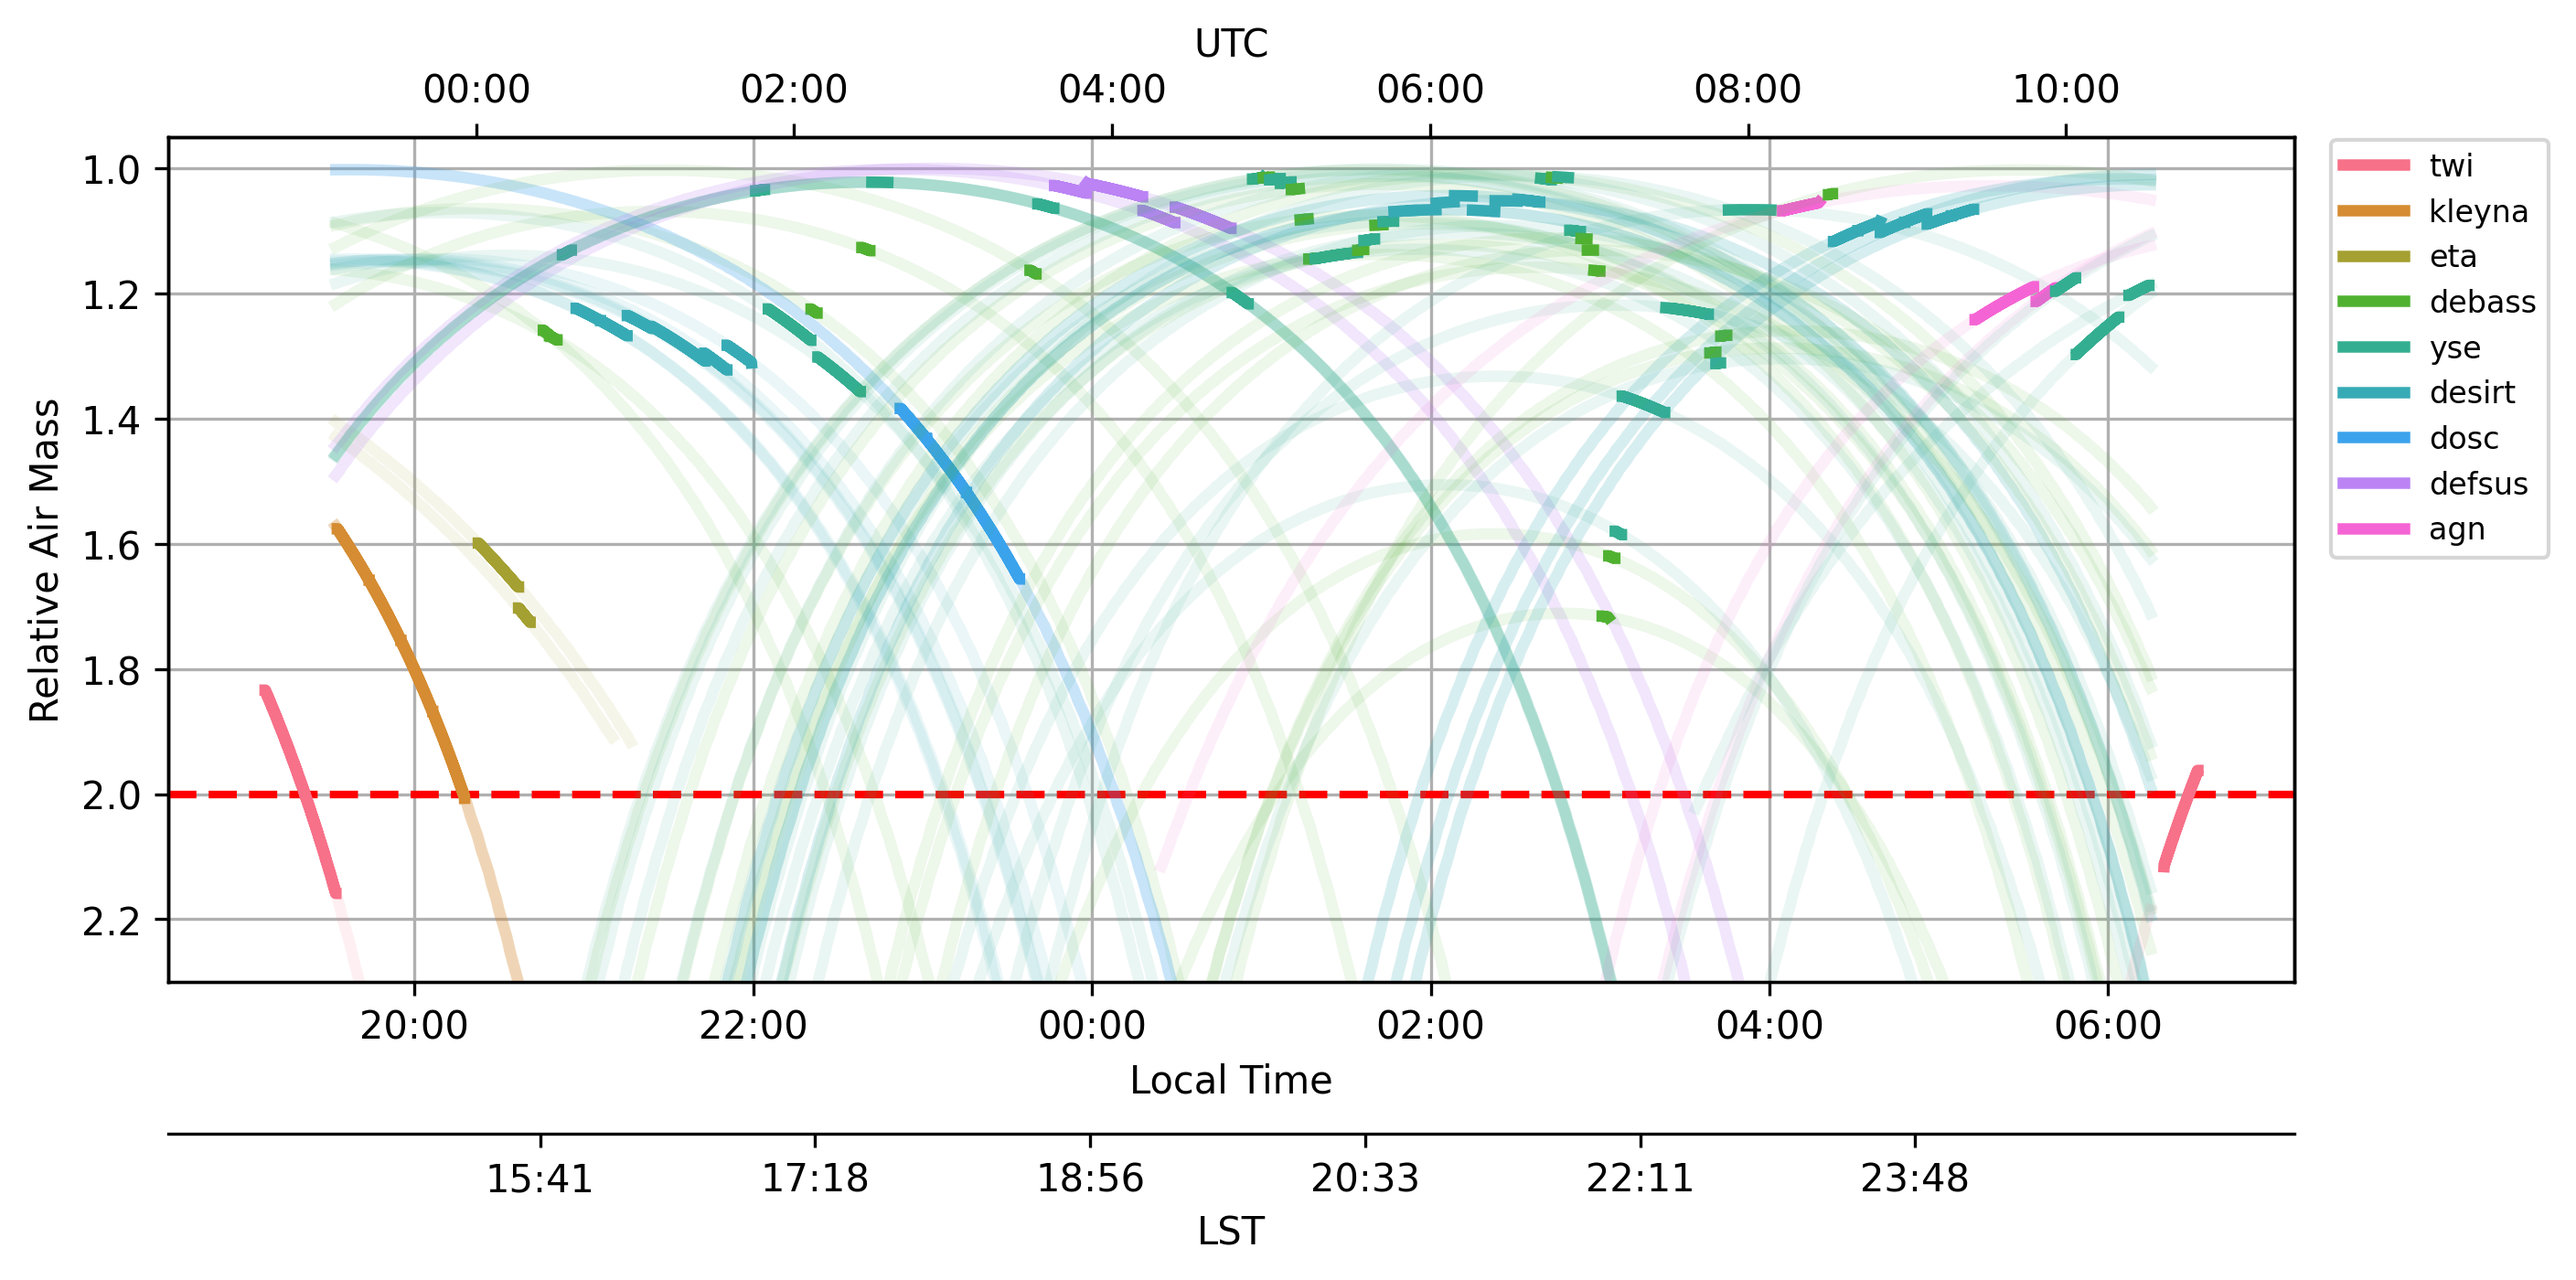
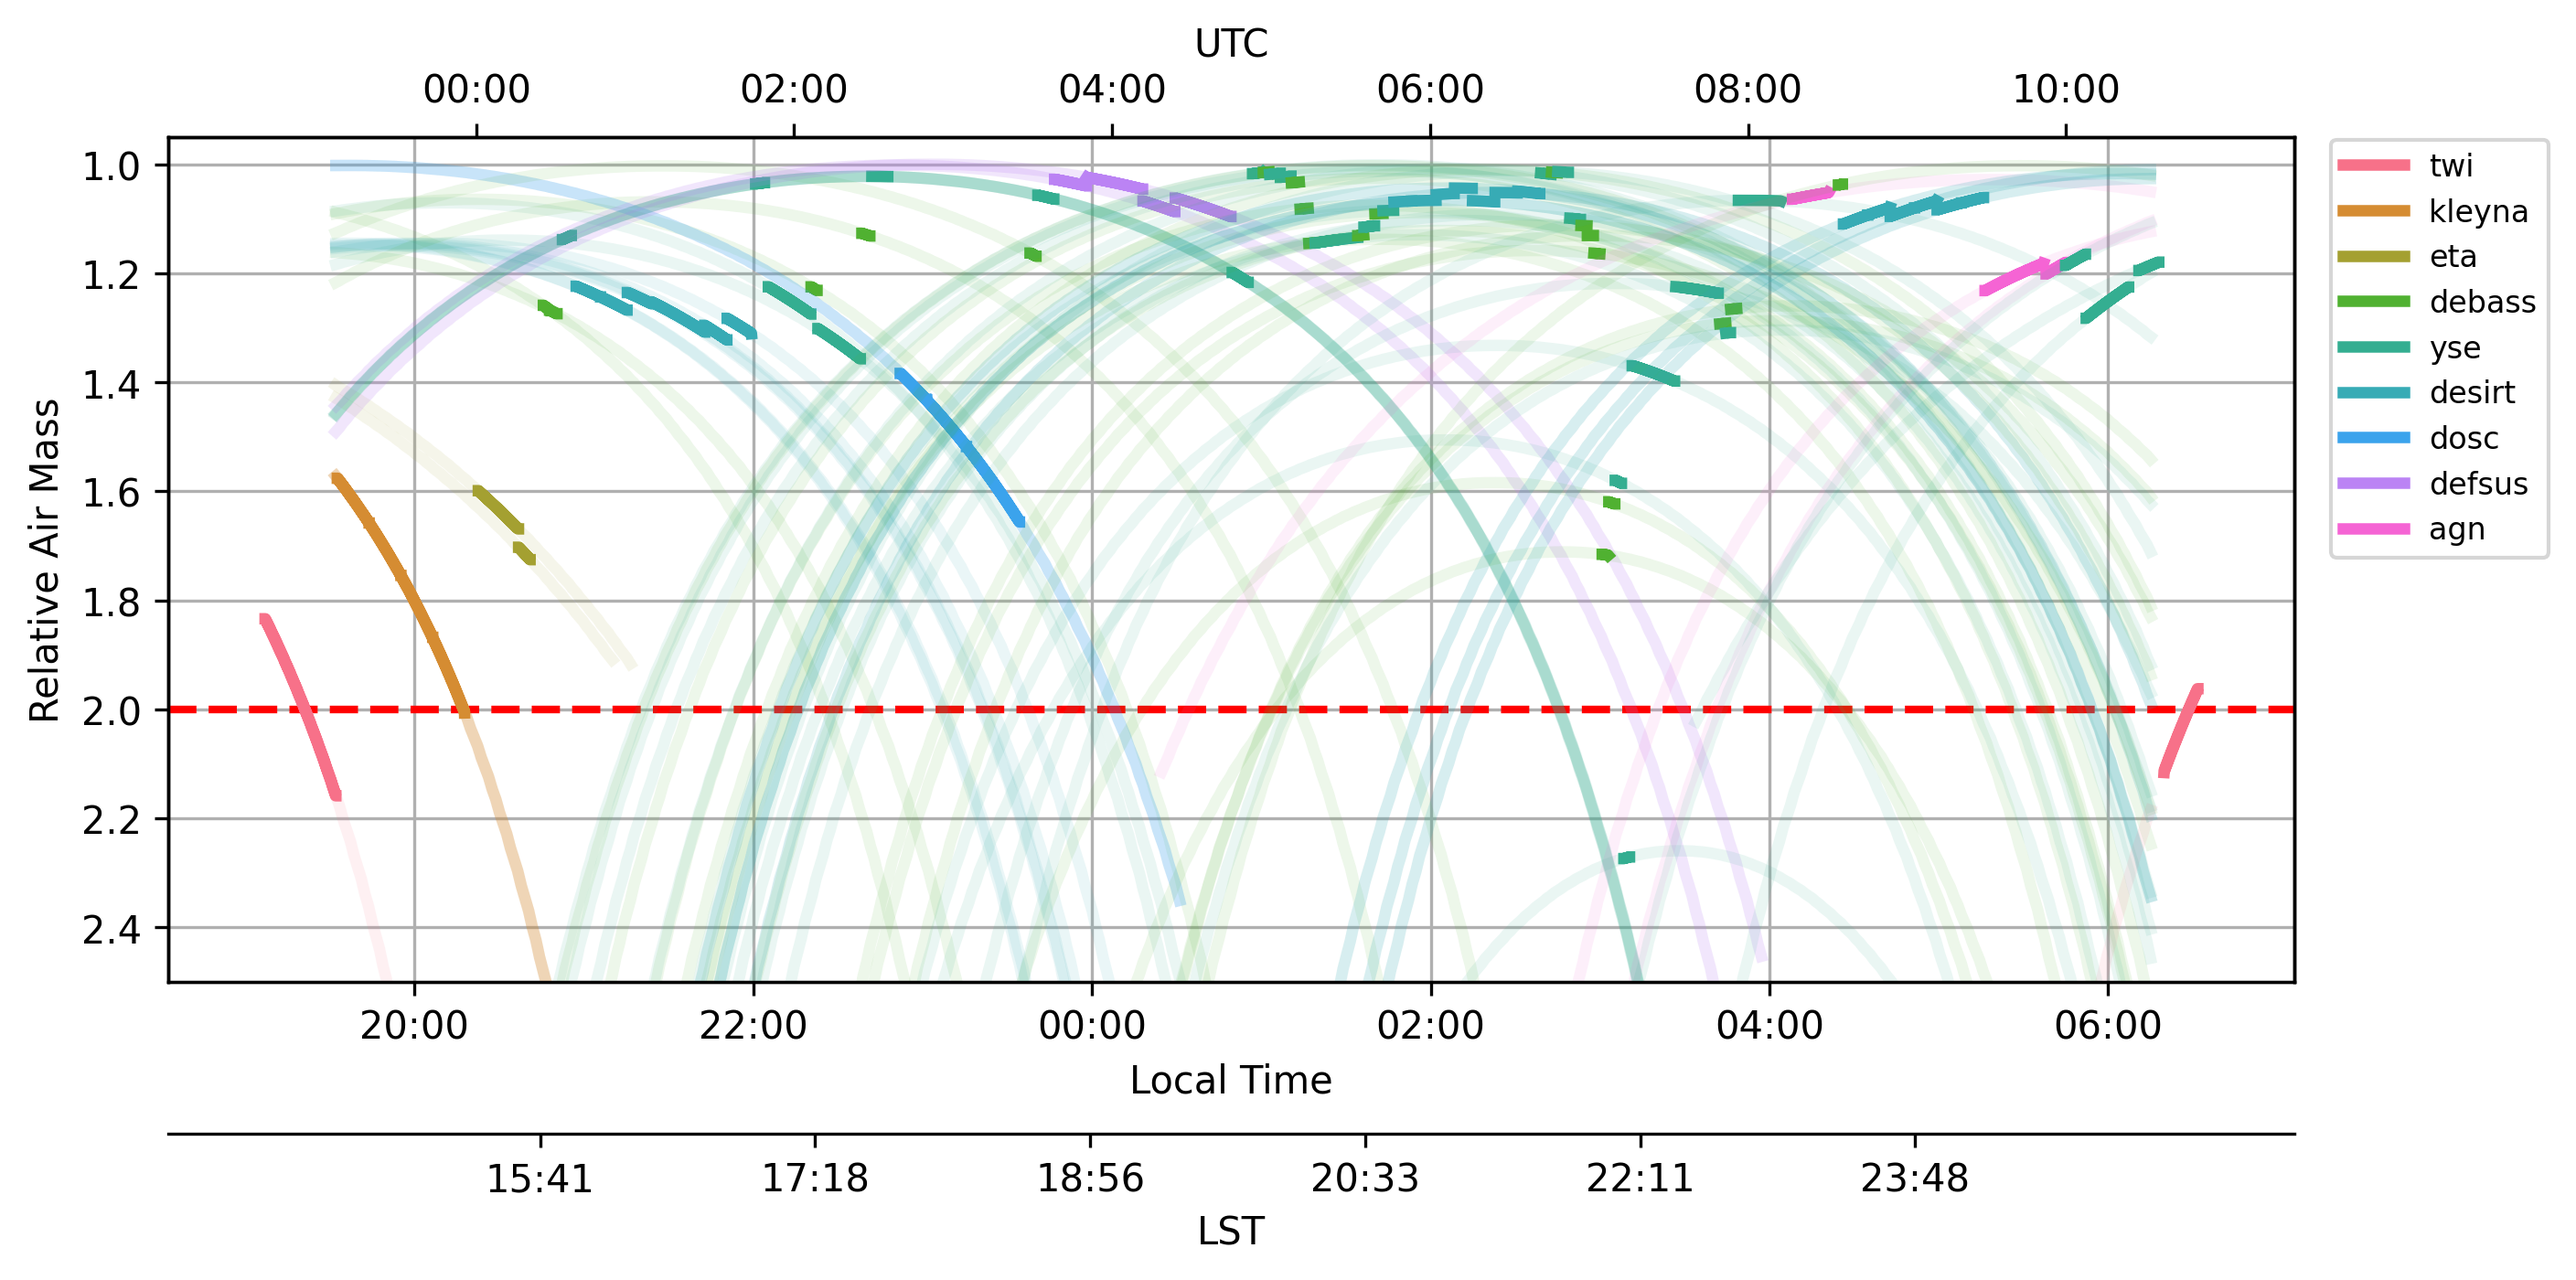
AR 7/17

diff --git a/json_files/2025A/yse/calc_night_durations.py b/json_files/2025A/yse/calc_night_durations.py
@@ -13,12 +13,12 @@ from astropy.coordinates import (EarthLocation, SkyCoord, AltAz, get_sun,
 
 if __name__=='__main__':
     YYYYMMDDs = [
-        '20250215',
-        '20250315',
-        '20250415',
-        '20250515',
-        '20250615',
-        '20250715',
+        '20250815',
+        '20250915',
+        '20251015',
+        '20251115',
+        '20251215',
+        '20260115',
         ]
     ctio = Observer.at_site("CTIO",timezone='America/Santiago')
 

diff --git a/gen_obsplan/airmass.py b/gen_obsplan/airmass.py
@@ -225,7 +225,7 @@ class AirmassCalculator:
         ax2 = ax1.twiny()
         ax3 = ax1.twiny()
         ax1.invert_yaxis()
-        ax1.set_ylim([2.3, 0.95])
+        ax1.set_ylim([2.5, 0.95])
         ax1.set_ylabel("Relative Air Mass")
         ax1.set_xlabel("Local Time")
         ax1.grid(True)
